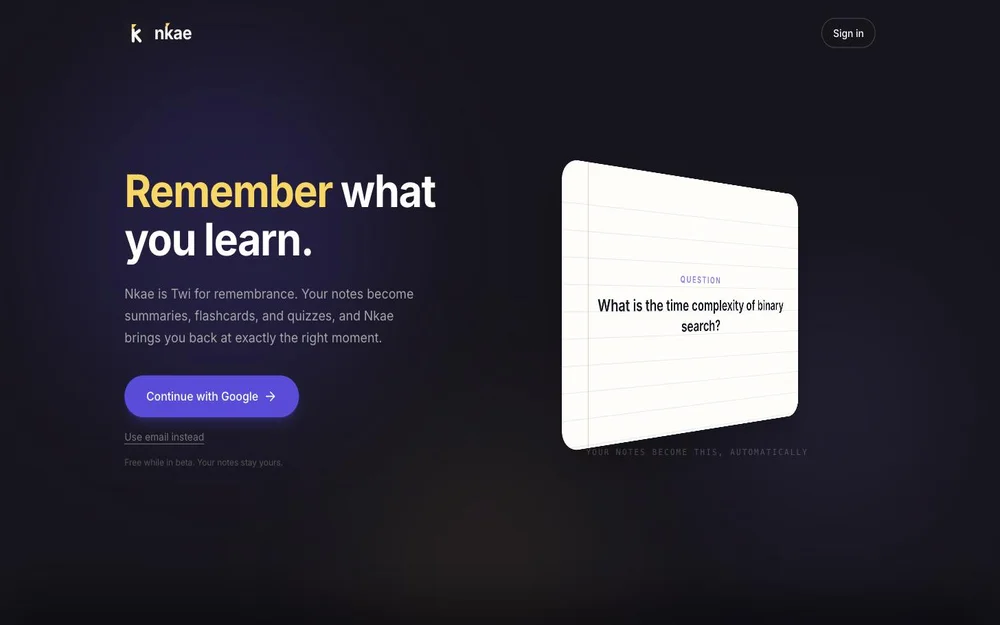
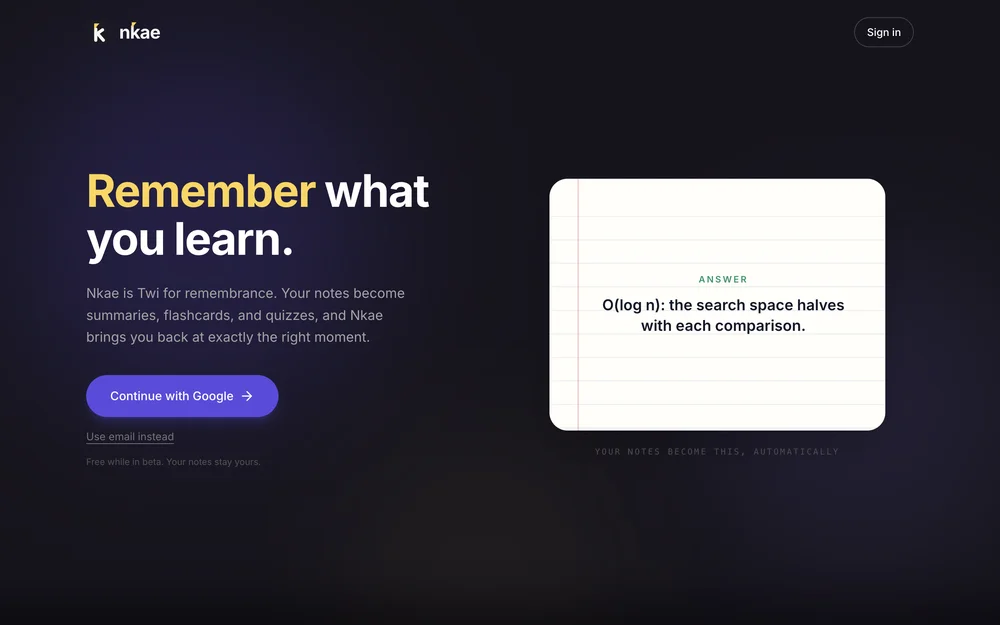
Add MEND Journey project + nkae landing preview

diff --git a/app/components/Projects.tsx b/app/components/Projects.tsx
@@ -39,6 +39,14 @@ const PROJECTS: Project[] = [
     image: "./previews/nkae.webp",
   },
   {
+    name: "MEND Journey",
+    category: "Nonprofit Platform · Astro + Netlify · Live",
+    href: "https://mendjourney.org",
+    gradient: "from-[#241536] to-[#c9a227]",
+    caption: "Two production sites + automated email pipeline",
+    image: "./previews/mend.webp",
+  },
+  {
     name: "Summa Ops Dashboard",
     category: "Full-Stack · Analytics",
     href: "https://github.com/Jewettturkson/enturk-ag",
